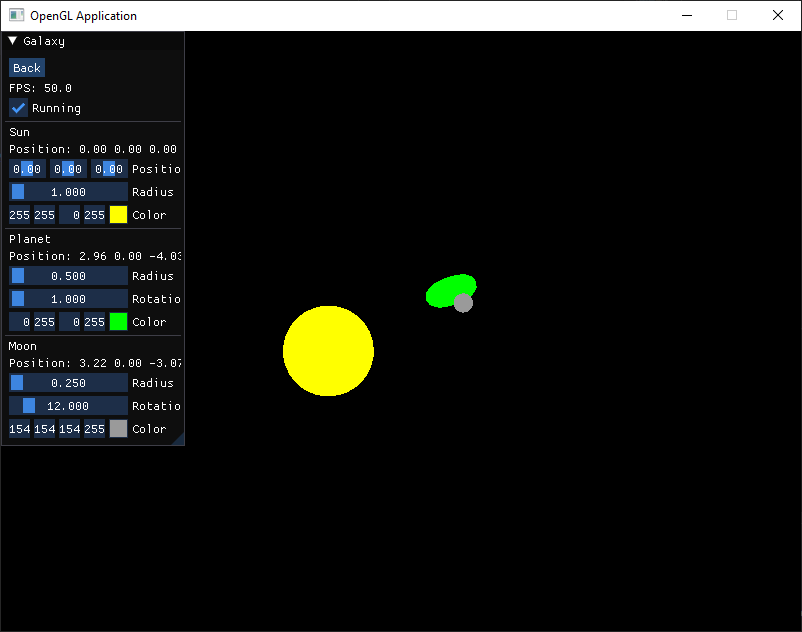
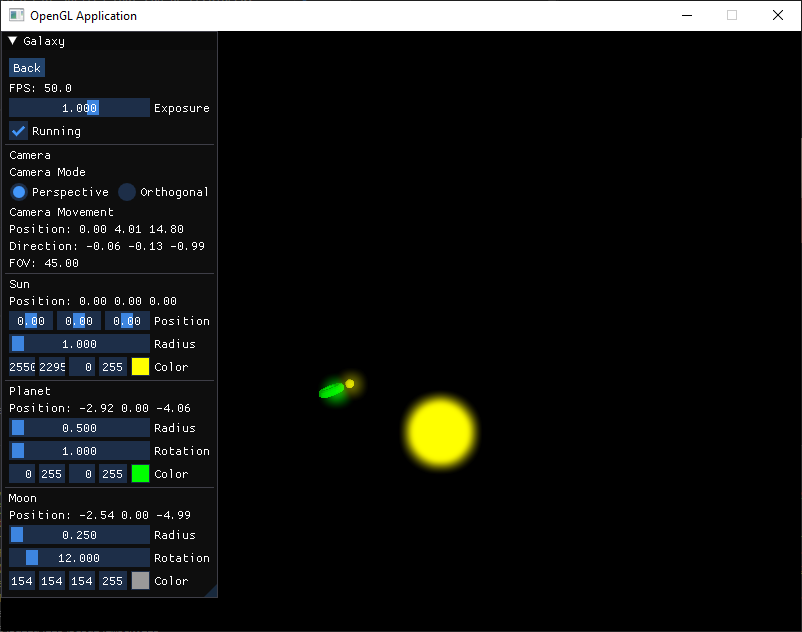
Update readme and fixed text render regression

diff --git a/src/Graphics/Renderer.cpp b/src/Graphics/Renderer.cpp
@@ -11,7 +11,7 @@ Renderer::Renderer(const glm::vec2& screenDim, Shader& spriteShader, Shader& tex
     mRectPlane_(rectPlane),
     mBlurShader_(frameBufferShader),
     mBloomFinalShader_(bloomFinalShader) {
-    defaultProjection = glm::ortho(0.0f, screenDim.x, 0.0f, screenDim.y);
+    mDefaultProjection_ = glm::ortho(0.0f, screenDim.x, 0.0f, screenDim.y);
     // Rect
     float verticesRect[] = {
         -0.5f, -0.5f, 0.0f,
@@ -172,7 +172,7 @@ void Renderer::setCamera(const Camera* camera) {
         glBufferSubData(GL_UNIFORM_BUFFER, sizeof(glm::mat4), sizeof(glm::mat4), glm::value_ptr(camera->getProjectionMatrix()));
     } else {
         glBufferSubData(GL_UNIFORM_BUFFER, 0, sizeof(glm::mat4), glm::value_ptr(glm::mat4(1)));
-        glBufferSubData(GL_UNIFORM_BUFFER, sizeof(glm::mat4), sizeof(glm::mat4), glm::value_ptr(glm::mat4(1)));
+        glBufferSubData(GL_UNIFORM_BUFFER, sizeof(glm::mat4), sizeof(glm::mat4), glm::value_ptr(mDefaultProjection_));
     }
     glBindBuffer(GL_UNIFORM_BUFFER, 0);
 }
@@ -279,6 +279,7 @@ void Renderer::renderSprite(SpriteSheet::Sprite& theSprite, const glm::mat4& mod
 void Renderer::renderText(const std::string& text, const glm::vec2& position, const Font& font, float scale, const glm::vec3& color) {
     float xPos = position.x;	
     mTextShader_.bind();
+    // TODO alpha color
     mTextShader_.setVec3("textColor", color);
     glActiveTexture(GL_TEXTURE0);
     glBindVertexArray(font.getVAO());
@@ -479,10 +480,10 @@ void Renderer::renderHDR() {
 
     // blur with ping pong
     bool horizontal = true, first_iteration = true;
-    const int amount = 10;
+    const int blurAmount = 10;
     glActiveTexture(GL_TEXTURE0);
 
-    for (int i = 0; i < amount; ++i) {
+    for (int i = 0; i < blurAmount; ++i) {
         glBindFramebuffer(GL_FRAMEBUFFER, pingpongFBO_[horizontal]);
         mBlurShader_.setInt("horizontal", horizontal);
         glBindTexture(
@@ -496,6 +497,7 @@ void Renderer::renderHDR() {
             first_iteration = false;
     }
     glBindFramebuffer(GL_FRAMEBUFFER, 0);
+    // clear the default buffer
     glClearColor(0.0f, 0.0f, 0.0f, 1.0f);
     glClear(GL_COLOR_BUFFER_BIT | GL_DEPTH_BUFFER_BIT);
     bool bloom = true;
@@ -513,11 +515,6 @@ void Renderer::renderHDR() {
     mBloomFinalShader_.setFloat("exposure", mExposure_);
     glDrawElements(GL_TRIANGLES, 6, GL_UNSIGNED_INT, 0);
 
-    GLenum err;
-    if ((err = glGetError()) != GL_NO_ERROR) {
-        LOG_E("renderHDR ERROR %d", err);
-    }
-
     glBindFramebuffer(GL_FRAMEBUFFER, 0);
     glBindVertexArray(0);
 }
@@ -532,7 +529,6 @@ void Renderer::setBloom(bool enable) {
     }
 }
 
-
 void Renderer::setExposure(float newExposure) {
     mExposure_ = newExposure;
 }
@@ -543,4 +539,16 @@ float Renderer::getExposure() const {
 
 void Renderer::enableGammaCorrect(bool enable) {
     mGammaCorrect_ = enable;
+}
+
+void Renderer::clearBuffers(const glm::vec4& color0, const glm::vec4 color1) {
+    glBindFramebuffer(GL_FRAMEBUFFER, hdrFBO_);
+    
+    glDrawBuffer(GL_COLOR_ATTACHMENT0);
+    glClearColor(color0.r, color0.g, color0.b, color0.a);
+    glClear(GL_COLOR_BUFFER_BIT | GL_DEPTH_BUFFER_BIT);
+
+    glDrawBuffer(GL_COLOR_ATTACHMENT1);
+    glClearColor(color1.r, color1.g, color1.b, color1.a);
+    glClear(GL_COLOR_BUFFER_BIT | GL_DEPTH_BUFFER_BIT);
 }

diff --git a/src/Utils/Utils.cpp b/src/Utils/Utils.cpp
@@ -9,6 +9,7 @@ namespace utils {
     void saveTextureAsBMP(GLuint textureID, const std::filesystem::path& filepath) {
         // Bind the texture
         glBindTexture(GL_TEXTURE_2D, textureID);
+
         // Get the texture width, height, and internal format
         int width, height, internalFormat;
         glGetTexLevelParameteriv(GL_TEXTURE_2D, 0, GL_TEXTURE_WIDTH, &width);
@@ -18,12 +19,18 @@ namespace utils {
         // Determine the format and the number of channels
         GLenum format;
         int channels;
+        GLenum type = GL_UNSIGNED_BYTE; // Default to unsigned byte
+
         if (internalFormat == GL_RGB || internalFormat == GL_SRGB) {
             format = GL_RGB;
             channels = 3;
         } else if (internalFormat == GL_RGBA || internalFormat == GL_SRGB_ALPHA) {
             format = GL_RGBA;
             channels = 4;
+        } else if (internalFormat == GL_RGBA16F) {
+            format = GL_RGBA;
+            channels = 4;
+            type = GL_FLOAT; // For floating-point data
         } else {
             // Handle other formats if necessary
             LOG_E("Unsupported texture format: %d", internalFormat);
@@ -32,9 +39,23 @@ namespace utils {
         }
 
         // Allocate memory to hold the texture data
-        std::vector<unsigned char> textureData(width * height * channels);
-        // Download the texture data
-        glGetTexImage(GL_TEXTURE_2D, 0, format, GL_UNSIGNED_BYTE, textureData.data());
+        std::vector<float> textureDataFloat;
+        std::vector<unsigned char> textureData;
+
+        if (type == GL_FLOAT) {
+            textureDataFloat.resize(width * height * channels);
+            glGetTexImage(GL_TEXTURE_2D, 0, format, type, textureDataFloat.data());
+
+            // Convert float data to unsigned byte for BMP
+            textureData.resize(width * height * channels);
+            for (int i = 0; i < width * height * channels; ++i) {
+                textureData[i] = static_cast<unsigned char>(glm::clamp(textureDataFloat[i] * 255.0f, 0.0f, 255.0f));
+            }
+        } else {
+            textureData.resize(width * height * channels);
+            glGetTexImage(GL_TEXTURE_2D, 0, format, type, textureData.data());
+        }
+
         // Unbind the texture
         glBindTexture(GL_TEXTURE_2D, 0);
 
@@ -45,6 +66,10 @@ namespace utils {
             width, height, channels,
             textureData.data()
         );
+
+        if (!saveResult) {
+            LOG_E("Failed to save BMP file: %s", filepath.string().c_str());
+        }
     }
 
 } // namespace utils

diff --git a/src/Application/App.cpp b/src/Application/App.cpp
@@ -85,26 +85,26 @@ void App::update() {
 
 void App::render() {
     // Set background color from scene
-    glBindFramebuffer(GL_FRAMEBUFFER, 0);
-    mpRenderer_->setBloom(true);
-    glClearColor(0.0f, 0.0f, 0.0f, 1.0f);
-    glClear(GL_COLOR_BUFFER_BIT | GL_DEPTH_BUFFER_BIT);
-    glBindFramebuffer(GL_FRAMEBUFFER, mpRenderer_->getHDRFBO());
-    mpRenderer_->setBloom(false);
     if (!mScenes_.empty()) {
         glm::vec4 sceneBackgroundColor = mScenes_.front()->getBackgroundColor();
-        //glClearColor(sceneBackgroundColor.r, sceneBackgroundColor.g, sceneBackgroundColor.b, sceneBackgroundColor.a);
+        glClearColor(sceneBackgroundColor.r, sceneBackgroundColor.g, sceneBackgroundColor.b, sceneBackgroundColor.a);
+        mpRenderer_->clearBuffers(
+            {sceneBackgroundColor.r, sceneBackgroundColor.g, sceneBackgroundColor.b, sceneBackgroundColor.a},
+            {0,0,0,1}
+        );
     } else {
-        //glClearColor(0.0f, 0.0f, 0.0f, 1.0f);
+        mpRenderer_->clearBuffers(
+            {0,0,0,1},
+            {0,0,0,1}
+        );
     }
-    glClearColor(0.0f, 0.0f, 0.0f, 1.0f);
-    glClear(GL_COLOR_BUFFER_BIT | GL_DEPTH_BUFFER_BIT);
+    glBindFramebuffer(GL_FRAMEBUFFER, mpRenderer_->getHDRFBO());
+    mpRenderer_->setBloom(false);
     glEnable(GL_FRAMEBUFFER_SRGB); // for gamma correction
     // Render list in reverse order
     for (auto it = mScenes_.rbegin(); it != mScenes_.rend(); ++it) {
        (*it)->render(*mpRenderer_);
     }
-    mpRenderer_->setBloom(true);
     mpRenderer_->renderHDR();
 
     // render guis on top (avoid gamma correction)

diff --git a/src/Graphics/Texture.cpp b/src/Graphics/Texture.cpp
@@ -5,11 +5,11 @@ Texture::Texture(const unsigned char* textureData, int width, int height, int ch
     mWidth_ = width;
     mHeight_ = height;
     mChannels_ = channels;
-    mTextureId_ = genGLTexture(textureData, width, height, channels);
+    mTextureId_ = genGLTexture(textureData, width, height, channels, gammaCorrect);
 }
 
 Texture::Texture(const std::filesystem::path& path, bool gammaCorrect) {
-    mTextureId_ = loadTexture(path, &mWidth_, &mHeight_, &mChannels_);
+    mTextureId_ = loadTexture(path, &mWidth_, &mHeight_, &mChannels_, gammaCorrect);
 }
 
 Texture::~Texture() {
@@ -29,7 +29,7 @@ unsigned int Texture::loadTexture(const std::filesystem::path& texturePath, int*
         throw std::runtime_error("Texture load failed");
     }
 
-    unsigned textureId = genGLTexture(textureData, *width, *height, *channels);
+    unsigned textureId = genGLTexture(textureData, *width, *height, *channels, gammaCorrect);
 
     SOIL_free_image_data(textureData);
     return textureId;

diff --git a/src/Graphics/Renderer.h b/src/Graphics/Renderer.h
@@ -132,6 +132,14 @@ public:
      */
     void enableGammaCorrect(bool enable);
 
+    /**
+     * @brief Clear the scene and bloom buffer
+     * 
+     * @param color0 clear color for scene buffer
+     * @param color1 clear color for bloom buffer
+     */
+    void clearBuffers(const glm::vec4& color0, const glm::vec4 color1);
+
 private:
     /** Max number of light that can be rendered with */
     const static int MAX_LIGHTS;
@@ -152,7 +160,7 @@ private:
     unsigned int mLineVAO_;
     unsigned int mLineVBO_;
 
-    glm::mat4 defaultProjection;
+    glm::mat4 mDefaultProjection_;
     /** Uniform buffer object to hold camera uniform variables shared by shaders */
     GLuint mCameraUBO_;
     /** Uniform buffer object to hold light uniform variables shared by shaders */

diff --git a/src/Application/Resource.cpp b/src/Application/Resource.cpp
@@ -28,7 +28,7 @@ void Resource::loadResource(const std::vector<std::filesystem::path>& resourcePa
         pModel->loadMesh(resourcePath[0]);
         mModels_[resourceName] = std::move(pModel);
     } else if constexpr(std::is_same_v<T, Texture>) {
-        mTextures_[resourceName] = std::make_unique<Texture>(resourcePath[0]);
+        mTextures_[resourceName] = std::make_unique<Texture>(resourcePath[0], true);
     } else if constexpr (std::is_same_v<T, Shader>) {
         mShaders_[resourceName] = std::make_unique<Shader>(resourcePath[0].c_str(),resourcePath[1].c_str());
     } else if constexpr (std::is_same_v<T, Audio>) {

diff --git a/src/Application/Scenes/Games/TurnStrategy/TurnStrategyScene.cpp b/src/Application/Scenes/Games/TurnStrategy/TurnStrategyScene.cpp
@@ -10,7 +10,6 @@ namespace turn_strategy {
         assembleResources();
         mBackgroundColor_ = {.5,.5,1,1.f};
         mpGame_ = std::make_unique<TurnStrategyGame>(*this);
-        mApp_.getRenderer().enableGammaCorrect(false);
     }
 
     TurnStrategyScene::~TurnStrategyScene() {}
@@ -33,6 +32,7 @@ namespace turn_strategy {
     }
 
     void TurnStrategyScene::render(Renderer& renderer) {
+        mApp_.getRenderer().enableGammaCorrect(false);
         renderer.setCamera(getFocusCamera());
         mpGame_->render(renderer);
     }

diff --git a/src/Application/Scenes/Scene2d/Scene2d.cpp b/src/Application/Scenes/Scene2d/Scene2d.cpp
@@ -46,7 +46,6 @@ namespace scene_2d {
         theEntity4->setPosition({0, 1, 0});
 
         mEntities_.push_back(std::unique_ptr<Entity>(theEntity4));
-        mApp_.getRenderer().enableGammaCorrect(false);
     }
 
     Scene2d::~Scene2d() {}
@@ -56,6 +55,7 @@ namespace scene_2d {
     }
 
     void Scene2d::render(Renderer& renderer) {
+        mApp_.getRenderer().enableGammaCorrect(false);
         renderer.setCamera(getFocusCamera());
         for (int i = 0; i < mEntities_.size(); ++i) {
             mEntities_[i]->render(renderer);

diff --git a/src/Application/Scenes/Games/RPG2D/RPG2DScene.cpp b/src/Application/Scenes/Games/RPG2D/RPG2DScene.cpp
@@ -8,7 +8,6 @@ namespace rpg_2d {
     RPG2DScene::RPG2DScene(App& theApp)
         : Scene(theApp), mGui_(*this), mGame_(*this, *getFocusCamera()) {
         getFocusCamera()->setPosition({0,0,10});
-        mApp_.getRenderer().enableGammaCorrect(false);
     }
 
     RPG2DScene::~RPG2DScene() {}
@@ -18,6 +17,7 @@ namespace rpg_2d {
     }
 
     void RPG2DScene::render(Renderer& renderer) {
+        mApp_.getRenderer().enableGammaCorrect(false);
         renderer.setCamera(getFocusCamera());
         mGame_.render(renderer);
     }

diff --git a/src/Application/Scenes/Galaxy/GalaxyScene.cpp b/src/Application/Scenes/Galaxy/GalaxyScene.cpp
@@ -18,7 +18,6 @@ GalaxyScene::GalaxyScene(App& theApp)
     // moon
     moonEntity_ = new MoonEntity(*this);
     mEntities_.push_back(moonEntity_);
-    mApp_.getRenderer().enableGammaCorrect(true);
 }
 
 GalaxyScene::~GalaxyScene() {
@@ -94,6 +93,7 @@ void GalaxyScene::update(const float dt) {
 }
 
 void GalaxyScene::render(Renderer& renderer) {
+    mApp_.getRenderer().enableGammaCorrect(true);
     renderer.setBloom(true);
     renderer.setLightSources({sunEntity_->getLightSource()});
     renderer.setCamera(getFocusCamera());

diff --git a/src/Application/Scenes/Lighting/LightingScene.cpp b/src/Application/Scenes/Lighting/LightingScene.cpp
@@ -40,7 +40,6 @@ namespace lighting_scene {
             assimpEntity->setPosition({-1.f, 0.f, 0.f});
             mEntities_.push_back(std::move(assimpEntity));
         }
-        mApp_.getRenderer().enableGammaCorrect(true);
     }
 
     LightingScene::~LightingScene() {}
@@ -50,6 +49,7 @@ namespace lighting_scene {
      * @param dt Time since last update in seconds
      */
     void LightingScene::update(const float dt) {
+        mApp_.getRenderer().enableGammaCorrect(true);
         mCameraController_.update(dt);
     }
 

diff --git a/src/Application/Scenes/PhysicsScene/PhysicsScene.cpp b/src/Application/Scenes/PhysicsScene/PhysicsScene.cpp
@@ -7,7 +7,7 @@ namespace physics_scene {
 PhysicsScene::PhysicsScene(App& theApp)
     : Scene(theApp), mCameraController_(getFocusCamera(), mApp_.getWindow().getInputHandler()), mGui_(*this) {
     assembleResources();
-    mBackgroundColor_ = {.4,.4,.4,1.f};
+    mBackgroundColor_ = {0,0,0, 1.f};
     getFocusCamera()->setPosition({0,0,5});
     // First particle
     {
